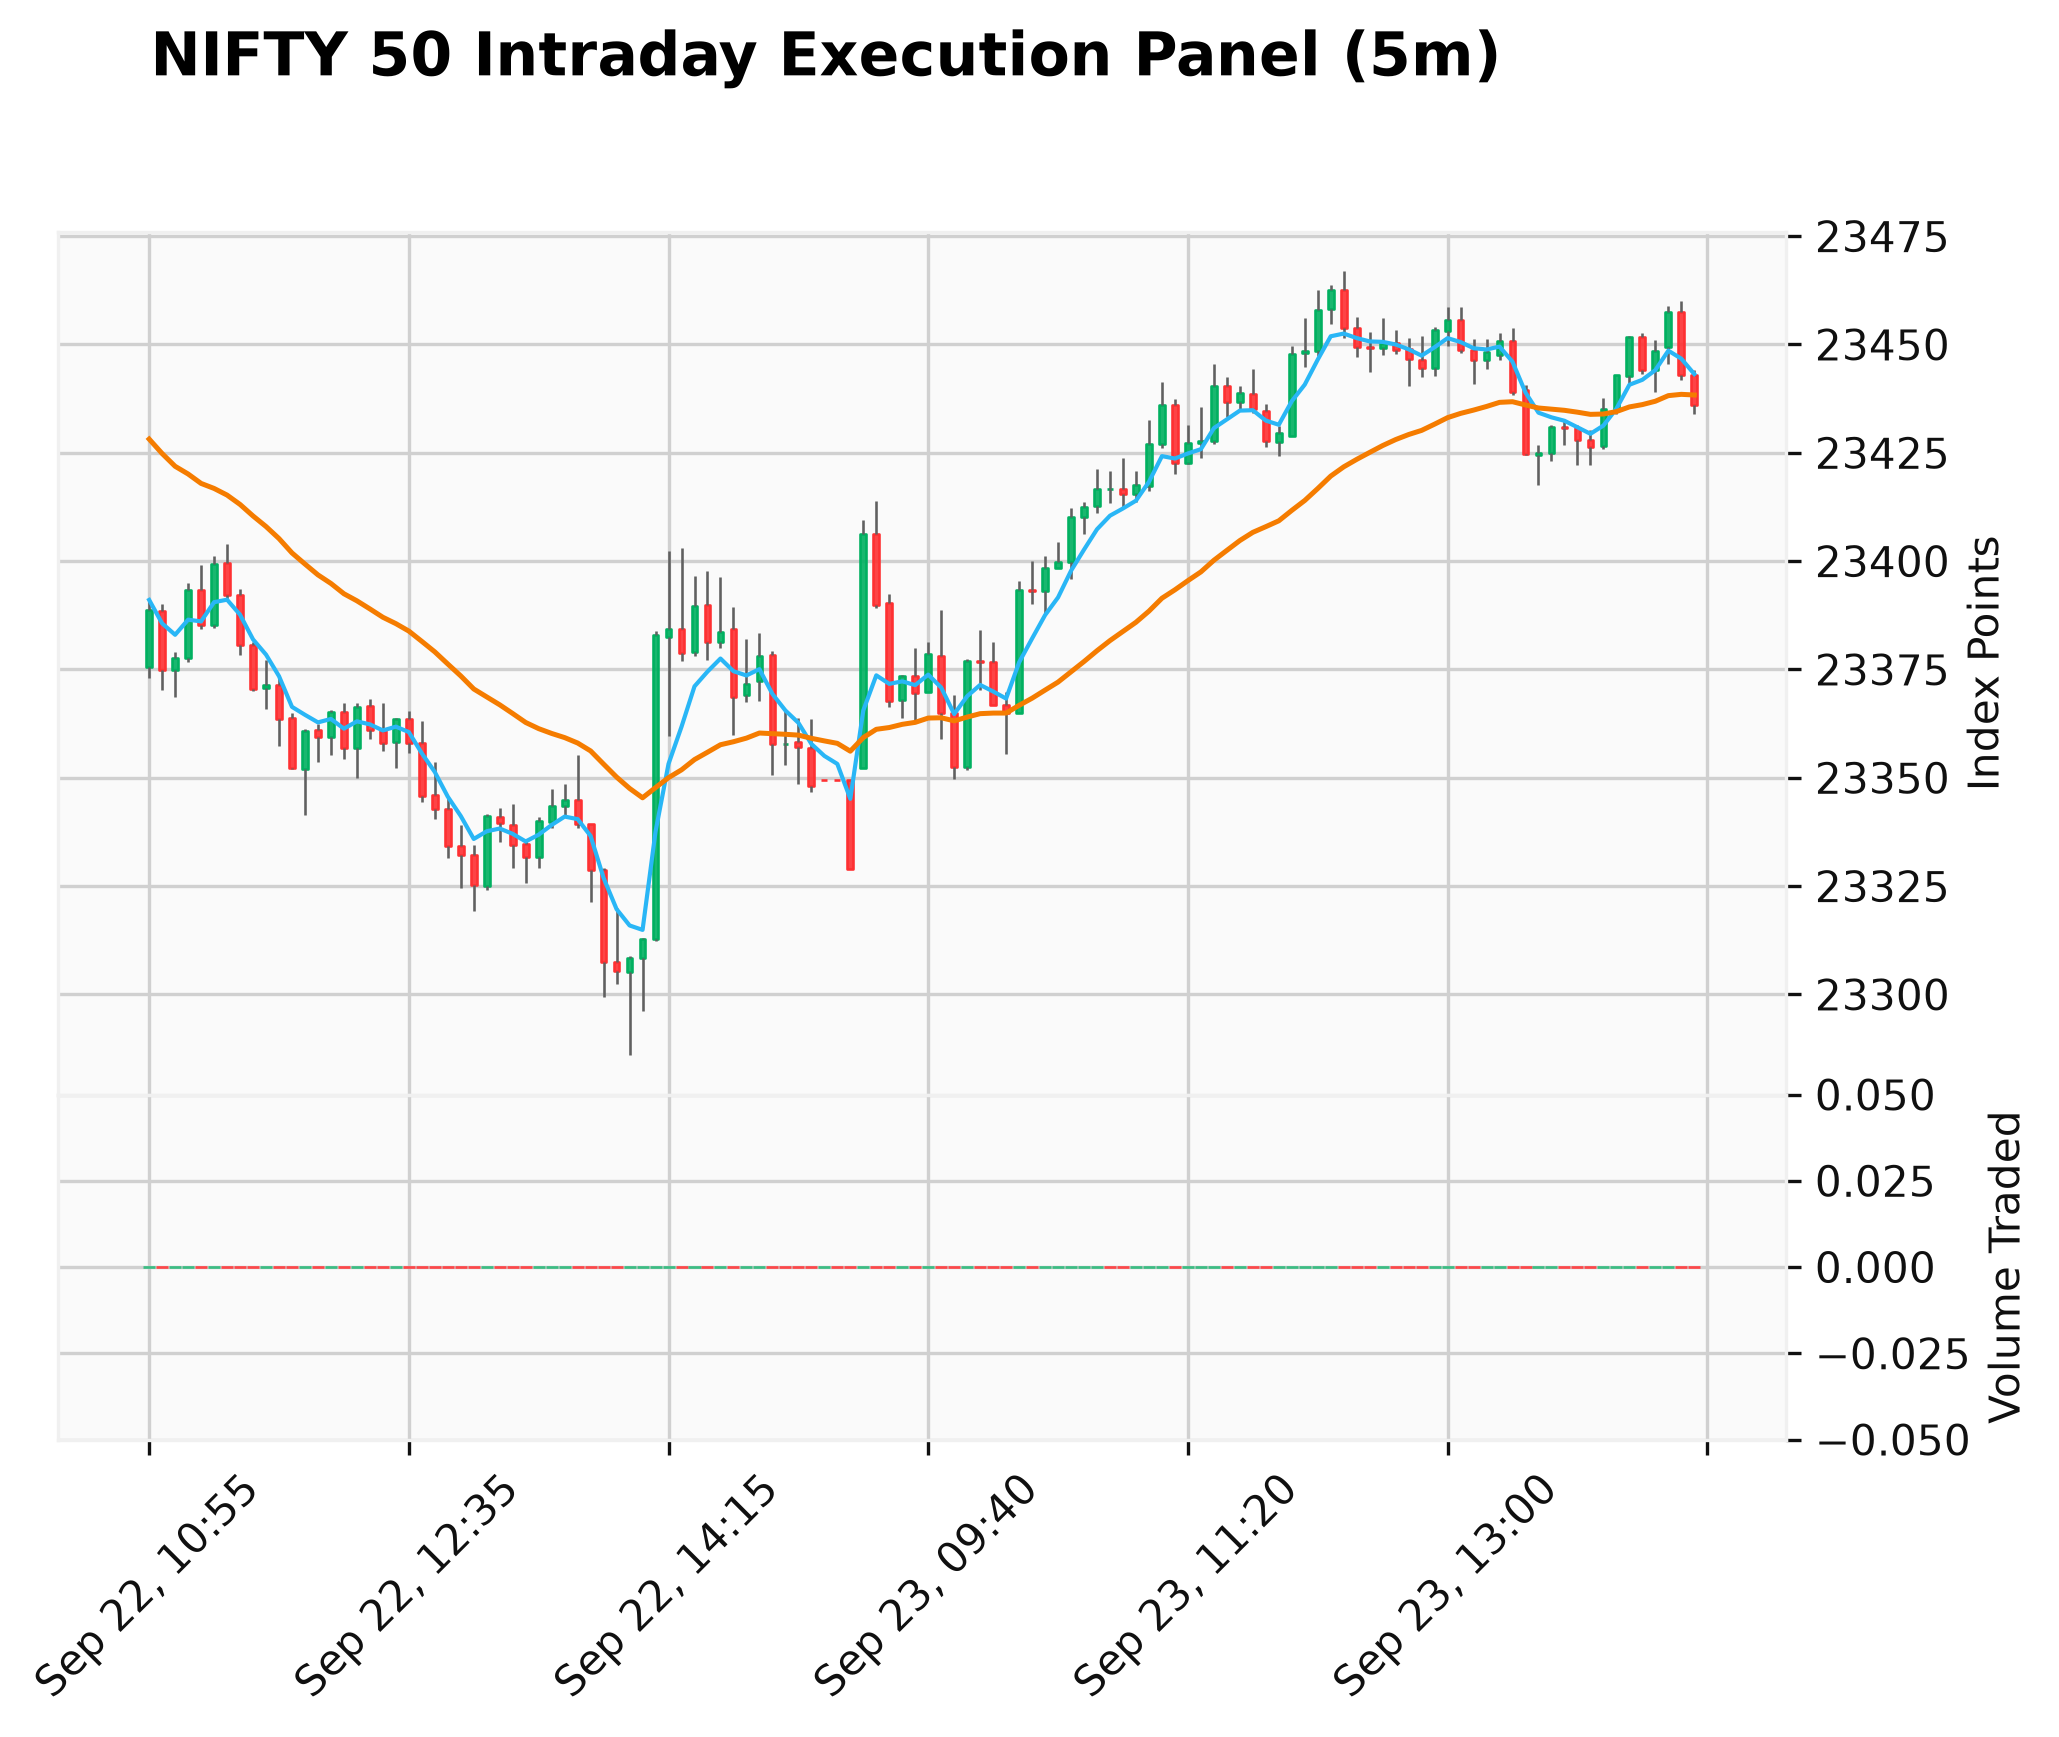
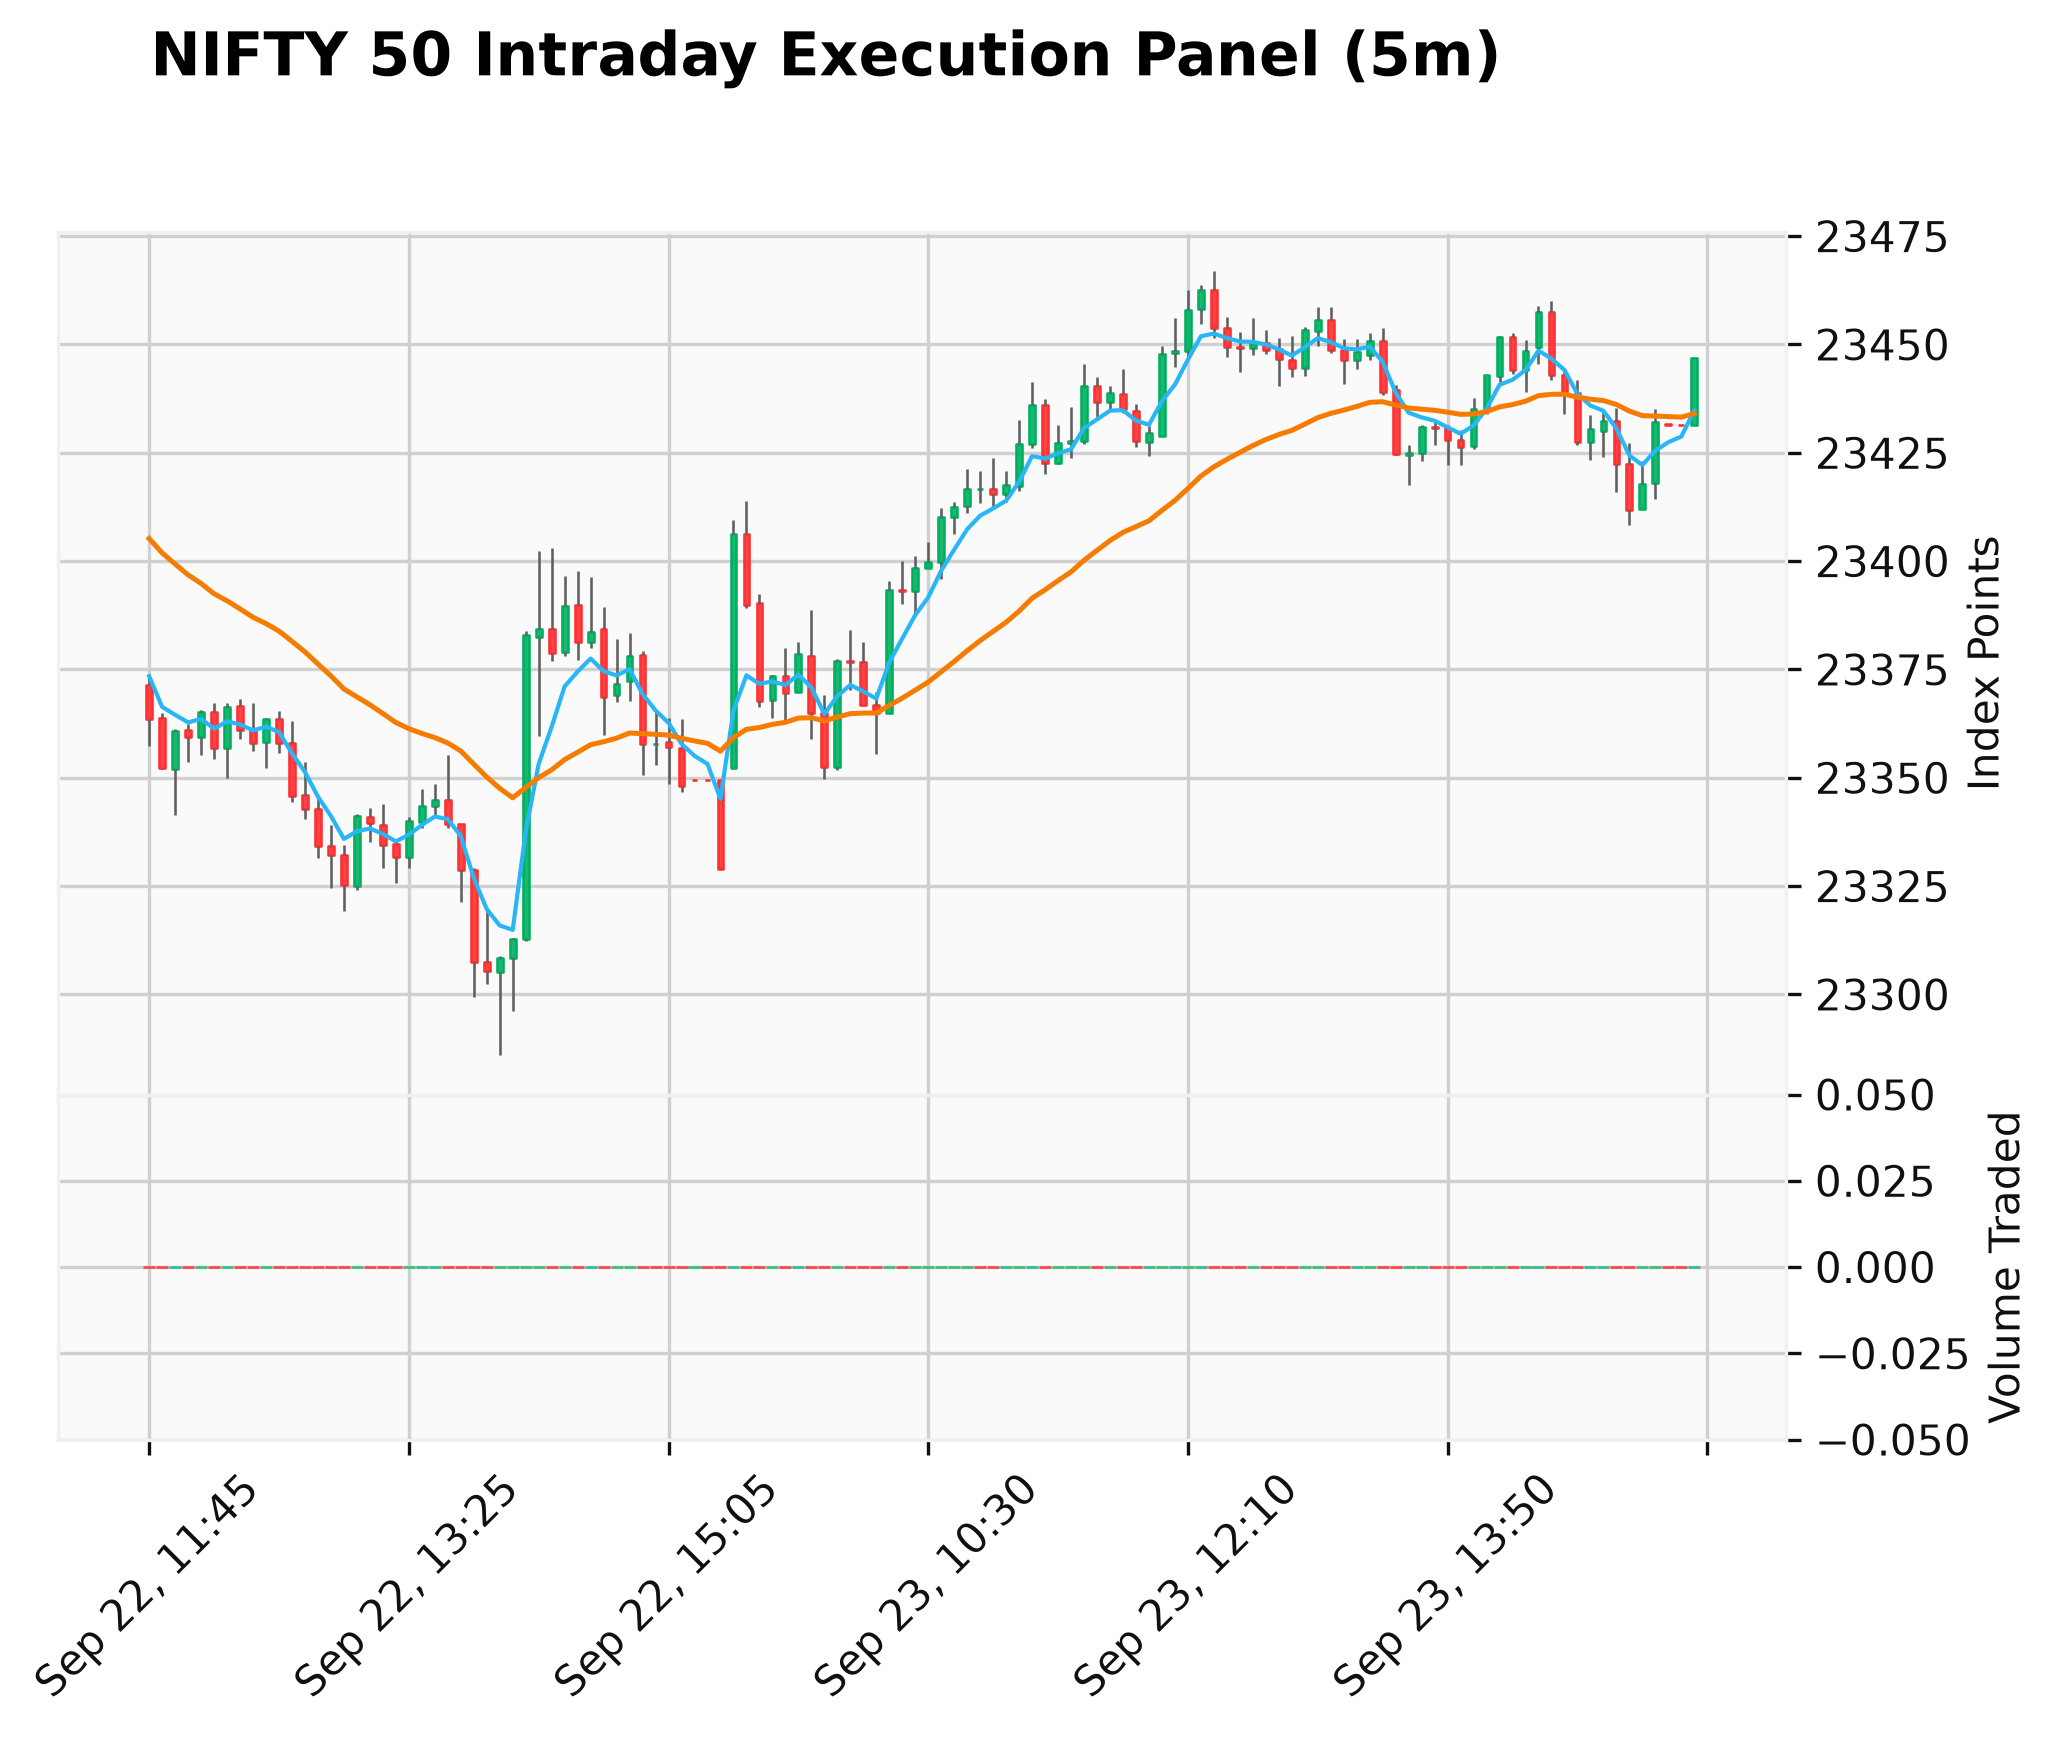
automated intraday update [skip ci]

diff --git a/README.md b/README.md
@@ -9,21 +9,21 @@ This pipeline automates an intraday technical framework running a 31 & 5 EMA str
 ---
 
 ## Core Execution Status
-- Last Engine Run: 2026-09-23 09:07:38 UTC
-- NIFTY 50 Current Index: 23,436.05
-- Model Target Prediction (Next 5-Min): 23,437.52
-- Machine Learning Bias: **BULLISH (UP)**
+- Last Engine Run: 2026-09-23 14:13:30 UTC
+- NIFTY 50 Current Index: 23,446.80
+- Model Target Prediction (Next 5-Min): 23,445.72
+- Machine Learning Bias: **BEARISH (DOWN)**
 
 ## 31 & 5 EMA Execution Signals
-- Trend Rule (Price vs 31 EMA): **DOWNTREND**
+- Trend Rule (Price vs 31 EMA): **UPTREND**
 - Ribbon Alignment (5 EMA vs 31 EMA): **BULLISH (5 EMA > 31 EMA)**
 - Volume Rule (Current vs Past 5 Candles): **NORMAL / LOW**
 - Algorithmic Output: **NO SIGNAL / HOLD (Awaiting execution setup)**
 
 ### Secondary Micro Metrics
-- RSI (14-Period): 47.88
-- Fast Exponential Moving Average (5 EMA): 23,443.16
-- Slow Exponential Moving Average (31 EMA): 23,438.34
+- RSI (14-Period): 57.00
+- Fast Exponential Moving Average (5 EMA): 23,434.77
+- Slow Exponential Moving Average (31 EMA): 23,434.07
 
 ### Live Intraday Chart Architecture
 ![Stock Trend](./trend_prediction.png)
